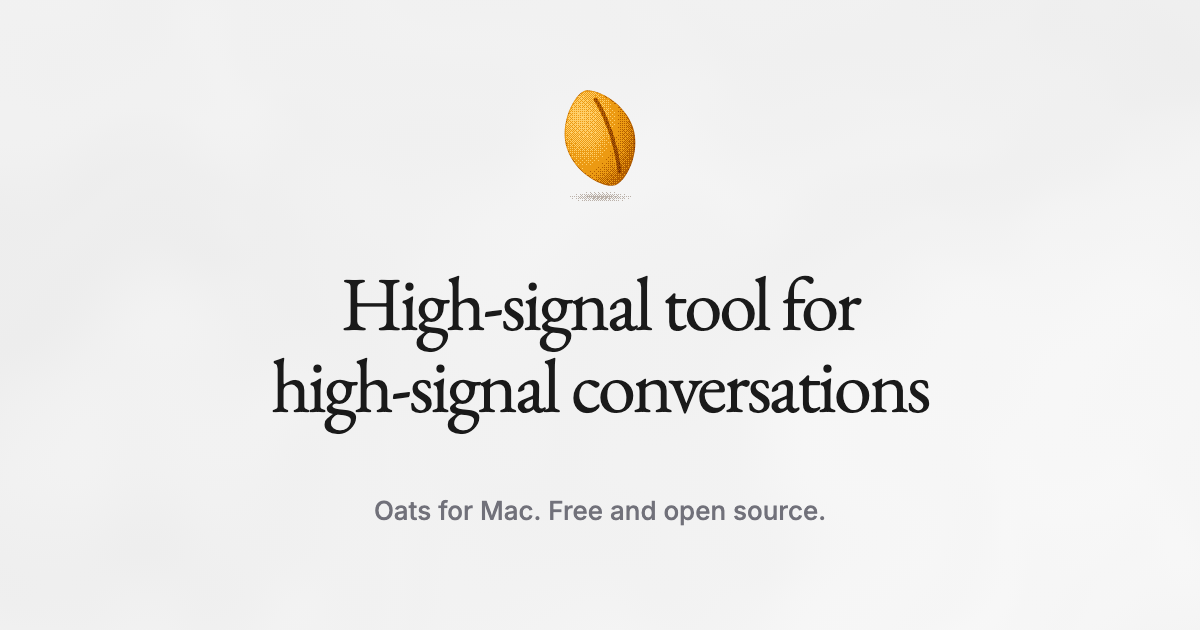
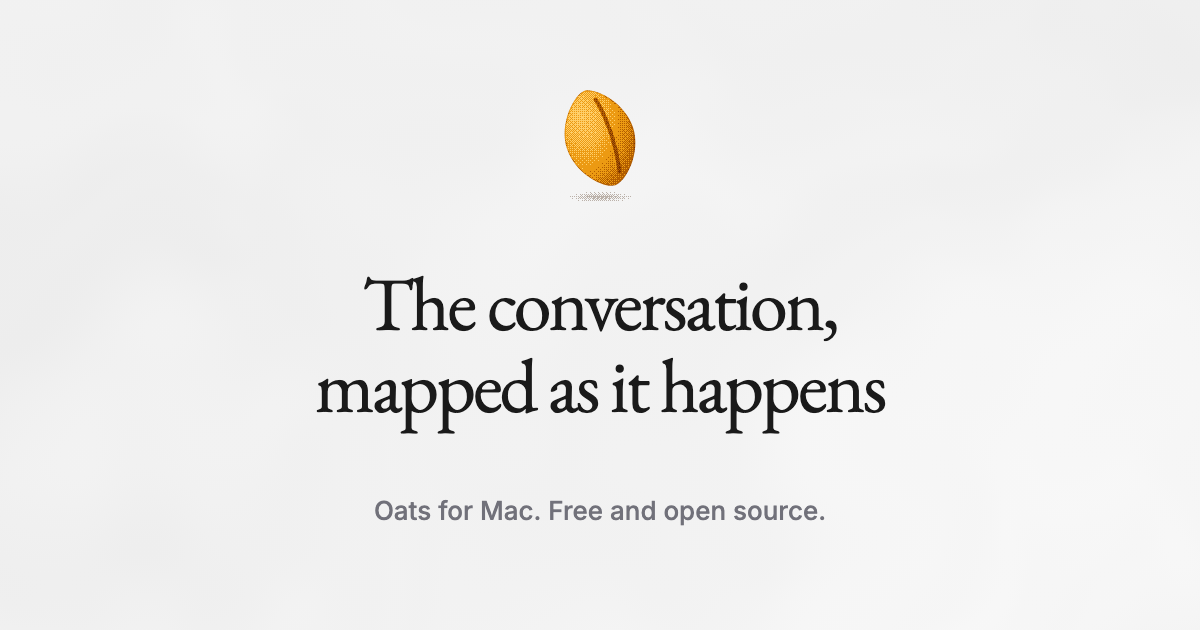
README and link previews: the new headline and the site's sections
The intro is the site's lead and why line, and "What it does" follows the
site's headings and first sentences, with the detail below them kept
where it is still true: Calm and Words are no longer named, the sort
names the model that writes the summary, and the Claude Code check says
what it reads and what goes to Anthropic. The banner, the link preview
and the social preview paint "The conversation, mapped as it happens".

Changed region(s): [[0.2158, 0.4222, 0.7708, 0.6937]]

diff --git a/README.md b/README.md
@@ -2,15 +2,19 @@
   <a href="https://oats-mac.vercel.app">
     <picture>
       <source media="(prefers-color-scheme: dark)" srcset="docs/media/banner-dark.png">
-      <img src="docs/media/banner-light.png" width="800" alt="Oats. High-signal tool for high-signal conversations.">
+      <img src="docs/media/banner-light.png" width="800" alt="Oats. The conversation, mapped as it happens.">
     </picture>
   </a>
 </p>
 
 <p align="center">
-  Oats records the conversation in the room and transcribes it on your Mac.<br>
-  It tracks the questions people ask and whether the room answered them, checks an unsure<br>
-  answer against your team's notes, and hands you the summary when you stop.
+  Oats maps the conversation in the room as it happens: topics as they turn,<br>
+  questions as they're asked, and whether anyone answered.
+</p>
+
+<p align="center">
+  Notes after the meeting come too late.<br>
+  Oats shows you the conversation while you can still steer it.
 </p>
 
 <p align="center">
@@ -23,24 +27,36 @@
 </p>
 
 <p align="center">
-  <img src="site/media/summary-window-2240.webp" width="880" alt="Oats showing a finished conversation, Enterprise launch review: SSO gates the date, with 15 questions (9 answered, 3 unknown, 2 unanswered, 1 open), a line of the conversation marked where each question was asked, and talk time per person.">
+  <img src="site/media/live-window-2240.webp" width="880" alt="Oats recording a launch review at 11:09. One line draws the conversation, with marks where an unknown, an unanswered and an answered question were asked. Below it, three topics as lanes: Pellwood launch date decision, SAML clock skew fix, and SOC 2 audit timeline, the one the room is on.">
 </p>
 
 The conversations that matter happen around a table. Taking notes pulls you out of them, and meeting bots join calls, not rooms. Oats sits on the table with one microphone. While you talk, the screen shows the shape of the conversation and nothing that competes with the people in front of you.
 
 ## What it does
 
-### Make room for the conversation
+### Watch the conversation take shape
 
-Press <kbd>⇧</kbd><kbd>⌘</kbd><kbd>O</kbd> in any app and talk. The sidebar steps aside, and one line draws the conversation as it happens: its height is how loud the room is, a notch marks where the subject turned, and a mark shows where someone asked a question. Under the clock, two quiet counters keep the words and the questions so far. Choose **Words** to add the live transcript and the question cards.
+Press <kbd>⇧</kbd><kbd>⌘</kbd><kbd>O</kbd> and talk. One line draws the conversation live: a notch where the subject turns, a mark where someone asks. Its height is how loud the room is. The sidebar steps aside while you record, and under the clock two quiet counters keep the words and the questions so far. Speech is transcribed on your Mac with whisper.cpp, on the GPU, and <kbd>M</kbd> marks a moment.
 
 <p align="center">
   <img src="docs/media/loop-record.webp" width="840" alt="Recording starts: the sidebar steps aside, and over a few minutes the line grows and the topics fill their lanes">
 </p>
 
-### Walk out knowing what is still open
+### Topics name themselves
 
-Oats hears a question and watches what the room does with it. Its card says how it ended, in place, while people are still talking. A question asked twice is kept as a signal, not dropped as a repeat.
+Each topic gets its name from what was said. When the room comes back to one, the line goes back too.
+
+The conversation flow under the line keeps one lane per topic, in the order raised, with the minutes spent on each. **Graph** shows the same topics by when each was raised and how unsettled it still is. Oats finds the topics on your Mac and names each with a phrase said in it, and the writing model names it more exactly as it grows. Under the lanes are subjects that came up with these in earlier conversations and have not come up yet.
+
+<p align="center">
+  <img src="site/media/topic-lanes.webp" width="840" alt="Conversation flow at 12:33, three topics and one return to an earlier topic. The line steps down from Pellwood launch date decision to SAML clock skew fix and SOC 2 audit timeline, then goes back up to Pellwood launch date decision, where the room is now.">
+</p>
+
+### Every question, caught as it's asked
+
+Each question shows up the moment it's asked, and changes when the room answers it, or doesn't. Ask again before anyone leaves.
+
+On the line, a question is a mark. With the transcript shown, it is also a card that says how it ended, in place, while people are still talking. A question asked twice is kept as a signal, not dropped as a repeat.
 
 | Card | When |
 |---|---|
@@ -53,35 +69,41 @@ Oats hears a question and watches what the room does with it. Its card says how 
   <img src="docs/media/loop-questions.webp" width="560" alt="A question is asked and its card appears as Open. After someone says they do not know, it turns Unknown and Oats searches it on the web">
 </p>
 
-### Checked against what your team wrote down
+### Unsure answers, checked on the spot
 
-Turn on the context check in Settings and choose a folder of your team's notes. When an answer in the room sounds unsure, Oats finds the passage that settles it, in that folder or in your past conversations, and says so under the question: **That's right**, **Wait, that's wrong**, or **Found it** when the room did not know, with the answer and the file it came from.
+When an answer sounds unsure, Oats looks it up in your notes and past conversations while people are still talking.
 
-Optional, and off by default: when the folder has no answer, Oats can ask Claude Code to look in GitHub, Linear and Notion, read only.
+It is off by default: turn on the context check in Settings and choose a folder of notes. Under the question, Oats says **That's right**, **Wait, that's wrong**, or **Found it** when the room did not know, with the answer and the file it came from. When the folder and your past conversations have no answer, Oats can also ask Claude Code, if you turn that on too: it reads your GitHub, Linear, Notion and Slack connections, read only, and the question and the reply go to Anthropic, and the search text to those services.
 
 <p align="center">
-  <img src="site/media/check-live.webp" width="640" alt="A recording at 8 minutes 25 seconds. Under the question Do we have a date from the auditors yet, marked Unknown, Oats shows Found it: Fieldwork starts November 10, from soc2-plan.md, Auditor dates.">
+  <img src="site/media/check-live.webp" width="640" alt="A recording at 8:33. Under the question Do we have a date from the auditors yet, asked 17 seconds earlier and marked Unknown, Oats shows Found it: Fieldwork starts November 10, from soc2-plan.md, Auditor dates. The transcript below has the reply: I don't know yet.">
 </p>
 
-### The conversation, given back in order
+### Written up when you stop
 
-Stop, and the conversation comes back with a title, a summary and the threads it followed, talk time for each person, how each question ended, and the transcript with the speakers told apart. Titles and summaries come from a writing model on your Mac, which Oats downloads at setup, or from your own API key. The transcript, the speakers, the questions and the shape of the conversation need neither.
+Title, summary, talk time for each person, and the transcript with every voice told apart.
+
+The summary starts by itself when you stop, with the threads the conversation followed, the decisions and the action items, next to how each question ended. It is written by a model on your Mac, which Oats downloads by itself, or with your own API key. The transcript, the voices, the questions and the shape of the conversation need no writing model.
 
 <p align="center">
-  <img src="site/media/outcomes.webp" width="560" alt="The list What this left open, 15 asked and 9 answered: questions marked Unknown, Unanswered, Open and Answered, with the answer under each answered one.">
+  <img src="site/media/conversation-finished.webp" width="560" alt="The finished conversation, Enterprise launch review: SSO gates the date. 29 minutes, 9 speakers, 3 marked moments, and 15 questions: 9 answered, 3 unknown, 2 unanswered, 1 open. Below, the shape of the conversation with each question in its place, and talk time for each person, from Maya at 18 percent to Omar at 2 percent.">
 </p>
 
 ### Find anything anyone said
 
-Search reads every transcript on your Mac, including the oldest. It finds a word inside a longer one, so "rice" finds "price", and it works in Chinese and Japanese, which are written without spaces. Each search says how many matches it found and how long it took.
+Search every transcript at once, even for part of a word. Chinese and Japanese too.
+
+Search reads every transcript on your Mac, including the oldest. It finds a word inside a longer one, so "rice" finds "price", and it works in Chinese and Japanese, which are written without spaces. Each search says how many matches it found and how long it took, and each match says when in the conversation it was said. Press <kbd>/</kbd> to search from anywhere in the app.
 
 <p align="center">
   <img src="docs/media/loop-search.webp" width="730" alt="A search for import bug finds 15 matches in 3 conversations in under a tenth of a millisecond, with the words highlighted">
 </p>
 
-### See how your conversations connect
+### See what keeps coming back
 
-The board lays out every conversation as a graph and as a timeline, so a subject that keeps coming back shows as the arcs between the days it came up. Each conversation is filed into Work, Personal or a group you make. A local model files it from its title, topics and summary, never from the transcript.
+Conversations on the same subject link up, so you see it come back across weeks.
+
+The board lays out every conversation as a graph and as a timeline, so a subject that keeps coming back shows as the arcs between the days it came up. Each conversation is sorted into Work, Personal or a group you make by the model that writes your summaries, from its title, its topics and the start of its summary, never from the transcript.
 
 <p align="center">
   <img src="docs/media/loop-global.webp" width="840" alt="The board of all conversations: a force graph of how they connect, and an arc timeline of the subjects that came back">
